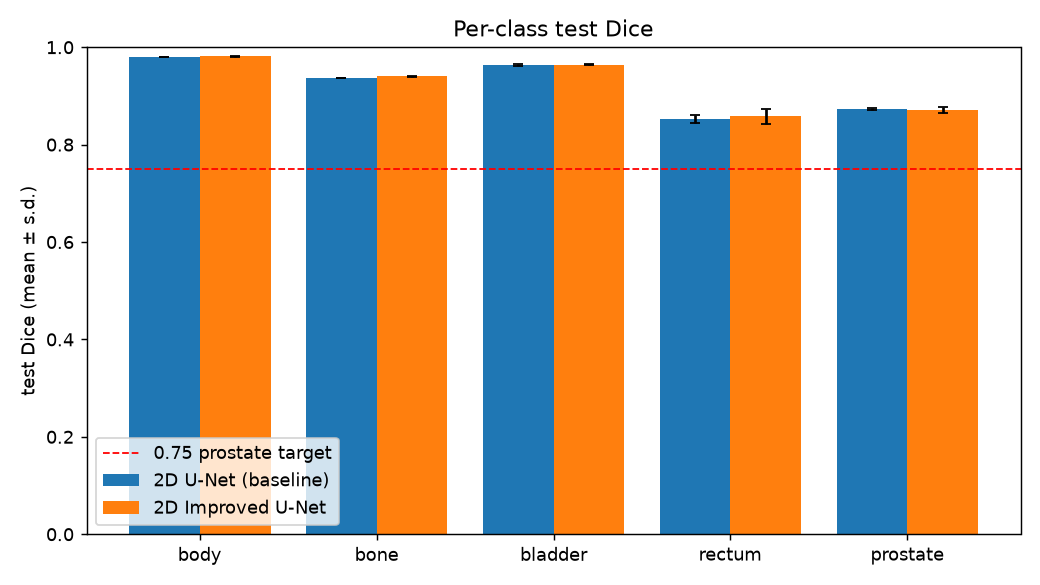
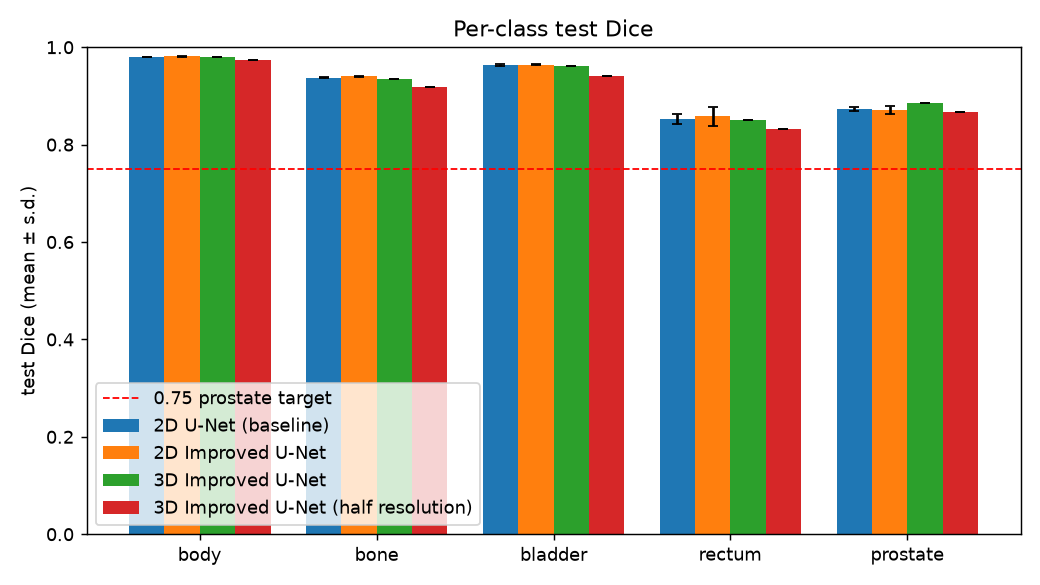
Add 3D Improved U-Net results (full and half resolution, seed 0)

diff --git a/recognition/ImprovedUNet_HipMRI_s4942544/images/comparison.md b/recognition/ImprovedUNet_HipMRI_s4942544/images/comparison.md
@@ -1,37 +1,54 @@
-Mean ± standard deviation over random seeds (2D U-Net (baseline): 3, 2D Improved U-Net: 3), held-out test split (3 patients, 540 slices).
+Mean ± standard deviation over random seeds (2D U-Net (baseline): 3, 2D Improved U-Net: 3, 3D Improved U-Net: 1, 3D Improved U-Net (half resolution): 1), held-out test split (3 patients, 540 slices).
 
 **Prostate accuracy and clinical error modes**
 
-| Metric | 2D U-Net (baseline) | 2D Improved U-Net |
-|---|---|---|
-| Prostate Dice (all slices) | 0.873 ± 0.003 | 0.871 ± 0.007 |
-| Prostate IoU | 0.775 ± 0.004 | 0.771 ± 0.010 |
-| Prostate Dice: central slices | 0.906 ± 0.001 | 0.909 ± 0.003 |
-| Prostate Dice: edge slices | 0.741 ± 0.013 | 0.713 ± 0.023 |
-| Prostate boundary F-score (2 px) | 0.920 ± 0.005 | 0.915 ± 0.010 |
-| Under-contouring (% of prostate missed) | 12.2 ± 2.1 | 12.7 ± 0.6 |
-| Leak into bladder (% of prostate area) | 0.92 ± 0.31 | 1.17 ± 0.25 |
-| Leak into rectum (% of prostate area) | 0.26 ± 0.28 | 0.16 ± 0.03 |
-| False-positive prostate-free slices (%) | 0.6 ± 0.6 | 0.6 ± 0.2 |
+| Metric | 2D U-Net (baseline) | 2D Improved U-Net | 3D Improved U-Net | 3D Improved U-Net (half resolution) |
+|---|---|---|---|---|
+| Prostate Dice (all slices) | 0.873 ± 0.003 | 0.871 ± 0.008 | 0.885 | 0.867 |
+| Prostate IoU | 0.775 ± 0.005 | 0.771 ± 0.013 | 0.794 | 0.765 |
+| Prostate Dice: central slices | 0.906 ± 0.001 | 0.909 ± 0.004 | 0.918 | 0.904 |
+| Prostate Dice: edge slices | 0.741 ± 0.016 | 0.713 ± 0.028 | 0.753 | 0.702 |
+| Prostate boundary F-score (2 px) | 0.920 ± 0.006 | 0.915 ± 0.012 | 0.940 | 0.925 |
+| Under-contouring (% of prostate missed) | 12.2 ± 2.5 | 12.7 ± 0.7 | 8.3 | 11.0 |
+| Leak into bladder (% of prostate area) | 0.92 ± 0.38 | 1.17 ± 0.31 | 0.83 | 0.50 |
+| Leak into rectum (% of prostate area) | 0.26 ± 0.34 | 0.16 ± 0.04 | 0.01 | 0.00 |
+| False-positive prostate-free slices (%) | 0.6 ± 0.8 | 0.6 ± 0.3 | 0.6 | 0.6 |
 
-**Per-class Dice**
+**Review-band rule (flag the slices around each end of the predicted prostate extent)**
 
-| Metric | 2D U-Net (baseline) | 2D Improved U-Net |
-|---|---|---|
-| body Dice | 0.980 ± 0.000 | 0.981 ± 0.000 |
-| bone Dice | 0.938 ± 0.000 | 0.940 ± 0.001 |
-| bladder Dice | 0.964 ± 0.002 | 0.964 ± 0.001 |
-| rectum Dice | 0.852 ± 0.008 | 0.858 ± 0.016 |
-| prostate Dice | 0.873 ± 0.003 | 0.871 ± 0.007 |
+| Metric | 2D U-Net (baseline) | 2D Improved U-Net | 3D Improved U-Net | 3D Improved U-Net (half resolution) |
+|---|---|---|---|---|
+| Slices flagged for manual review (%) | 13.3 ± 0.0 | 13.3 ± 0.0 | 13.3 | 13.3 |
+| Missed prostate area caught by the flag (%) | 28.3 ± 4.4 | 36.0 ± 4.5 | 41.2 | 44.6 |
+| False-positive area caught by the flag (%) | 18.8 ± 1.0 | 16.6 ± 1.4 | 15.9 | 11.9 |
+| Whole-slice omissions (count) | 13.3 ± 2.3 | 17.7 ± 3.1 | 9.0 | 14.0 |
+| Whole-slice omissions caught (%) | 95.1 ± 4.3 | 92.6 ± 1.9 | 88.9 | 71.4 |
+| Prostate Dice on auto-drafted (unflagged) slices | 0.895 ± 0.002 | 0.895 ± 0.005 | 0.907 | 0.892 |
+
+**Per-class Dice and IoU**
+
+| Metric | 2D U-Net (baseline) | 2D Improved U-Net | 3D Improved U-Net | 3D Improved U-Net (half resolution) |
+|---|---|---|---|---|
+| body Dice | 0.980 ± 0.000 | 0.981 ± 0.000 | 0.980 | 0.974 |
+| body IoU | 0.961 ± 0.001 | 0.963 ± 0.001 | 0.960 | 0.950 |
+| bone Dice | 0.938 ± 0.000 | 0.940 ± 0.001 | 0.935 | 0.919 |
+| bone IoU | 0.882 ± 0.001 | 0.887 ± 0.001 | 0.877 | 0.850 |
+| bladder Dice | 0.964 ± 0.002 | 0.964 ± 0.001 | 0.961 | 0.940 |
+| bladder IoU | 0.930 ± 0.004 | 0.931 ± 0.002 | 0.925 | 0.887 |
+| rectum Dice | 0.852 ± 0.010 | 0.858 ± 0.020 | 0.851 | 0.831 |
+| rectum IoU | 0.742 ± 0.016 | 0.752 ± 0.030 | 0.741 | 0.711 |
+| prostate Dice | 0.873 ± 0.003 | 0.871 ± 0.008 | 0.885 | 0.867 |
+| prostate IoU | 0.775 ± 0.005 | 0.771 ± 0.013 | 0.794 | 0.765 |
 
 **Resource profile**
 
-| Metric | 2D U-Net (baseline) | 2D Improved U-Net |
-|---|---|---|
-| Parameters (M) | 7.76 ± 0.00 | 3.19 ± 0.00 |
-| Peak training VRAM (GB) | 0.89 ± 0.00 | 0.67 ± 0.00 |
-| Training time per epoch (s) | 34.5 ± 0.1 | 38.3 ± 0.2 |
-| Total training time (min) | 29.2 ± 0.1 | 32.3 ± 0.2 |
-| Inference per slice (ms; 3D: volume time / slices) | 1.08 ± 0.12 | 0.93 ± 0.02 |
-| Inference per scan (s) | 0.06 ± 0.01 | 0.06 ± 0.00 |
-| Peak inference VRAM (GB) | 0.97 ± 0.00 | 0.59 ± 0.00 |
+| Metric | 2D U-Net (baseline) | 2D Improved U-Net | 3D Improved U-Net | 3D Improved U-Net (half resolution) |
+|---|---|---|---|---|
+| Parameters (M) | 7.76 ± 0.00 | 3.19 ± 0.00 | 9.46 | 9.46 |
+| Peak training VRAM (GB) | 0.89 ± 0.00 | 0.67 ± 0.00 | 7.66 | 1.08 |
+| Training time per epoch (s) | 34.5 ± 0.1 | 38.3 ± 0.3 | 25.6 | 5.9 |
+| Total training time (min) | 29.2 ± 0.1 | 32.3 ± 0.2 | 43.5 | 20.9 |
+| Inference per slice (ms; 3D: volume time / slices) | 1.08 ± 0.00 | 0.94 ± 0.02 | 1.56 | 0.39 |
+| Inference per scan (s) | 0.07 ± 0.00 | 0.06 ± 0.00 | 0.09 | 0.02 |
+| Peak inference VRAM (GB) | 0.97 ± 0.00 | 0.59 ± 0.00 | 2.06 | 0.37 |
+| Latency for one input, batch of 1 (ms; 3D: one volume) | 2.62 ± 0.01 | 5.98 ± 0.03 | 55.33 | 7.59 |
